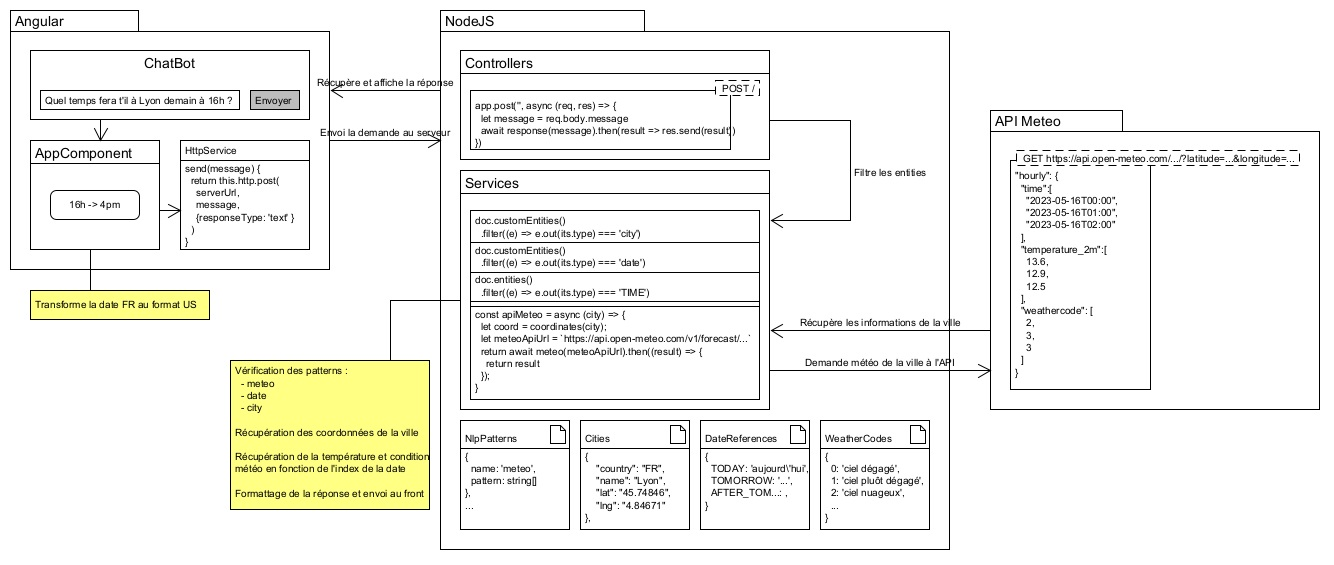
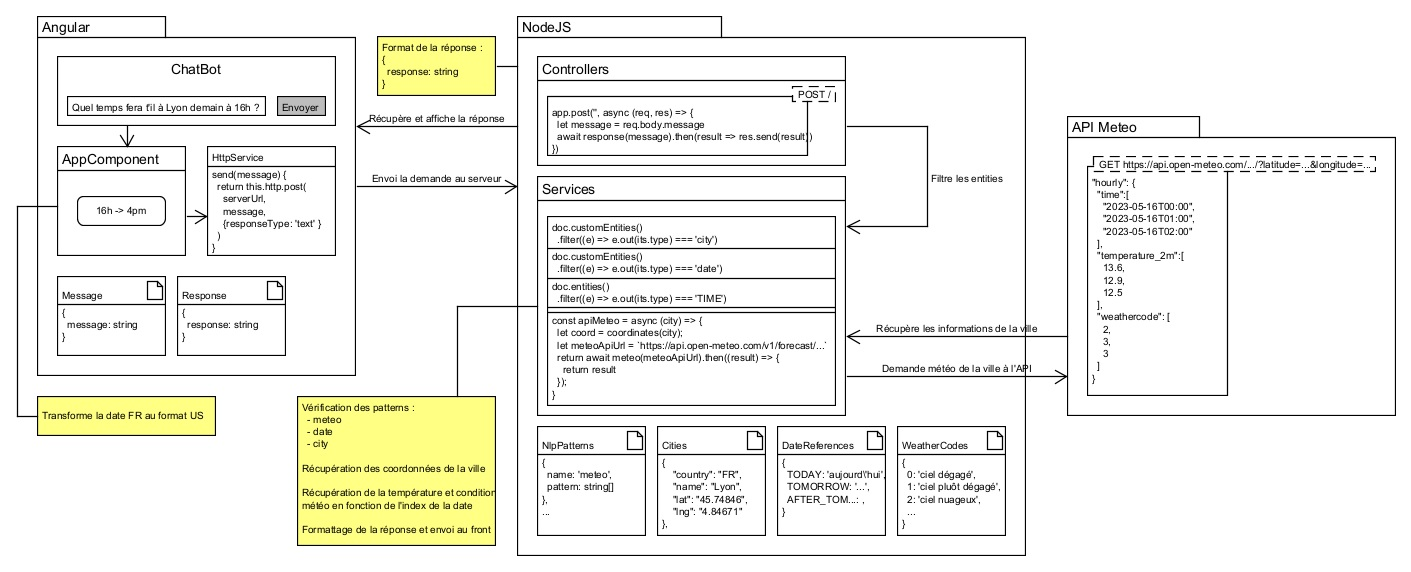
Response text to JSON

Changed region(s): [[0.0, 0.0, 0.9835, 0.9929], [0.7684, 0.7221, 0.9835, 0.7522], [0.9835, 0.2407, 1.0, 0.2708]]

diff --git a/client/src/app/services/http-request.service.ts b/client/src/app/services/http-request.service.ts
@@ -2,6 +2,7 @@ import { Injectable } from '@angular/core';
 import { HttpClient } from '@angular/common/http';
 import { environment } from 'src/environments/environment';
 import { Message } from '../models/message.model';
+import { Response } from '../models/response.model';
 
 @Injectable({
   providedIn: 'root'
@@ -13,6 +14,6 @@ export class HttpRequestService {
   ) { }
 
   send(message: Message) {
-    return this.http.post(`${environment.serverUrl}`, message, { responseType: 'text' });
+    return this.http.post<Response>(`${environment.serverUrl}`, message);
   }
 }

diff --git a/client/src/app/app.component.ts b/client/src/app/app.component.ts
@@ -25,7 +25,7 @@ export class AppComponent implements OnInit {
   send() {
     this.lastQuestion = this.text.nativeElement.value;
     this.http.send(new Object({ message: this.processText(this.text.nativeElement.value) }) as Message).subscribe({
-      next: (res) => this.response = res,
+      next: (res) => this.response = res.response,
       error: (err) => this.response = err
     })
     // this.text.nativeElement.value = '';

diff --git a/server/controllers/main-controller.js b/server/controllers/main-controller.js
@@ -8,7 +8,7 @@ const response = require('../services/meteo-service.js')
 app.post('', async (req, res) => {
   let message = req.body.message
   
-  await response(message).then(result => res.send(result))
+  await response(message).then(result => res.send(new Object({ response: result })))
 })
 
 module.exports = app

diff --git a/client/src/app/models/response.model.ts b/client/src/app/models/response.model.ts
@@ -1,0 +1,3 @@
+export interface Response {
+  response: string
+}

diff --git a/README.md b/README.md
@@ -73,6 +73,12 @@ POST http://localhost:3000/
   "message": "Quel temps fera-t-il à Lyon demain ?"
 }
 ```
+```
+RESPONSE 200
+{
+  "response": "Méteo de Lyon le 17-05-2023 à 09:00 : Température : 13.4°C..."
+}
+```
 - Depuis NodeJS vers API : 
 ```
 GET https://api.open-meteo.com/v1/forecast
